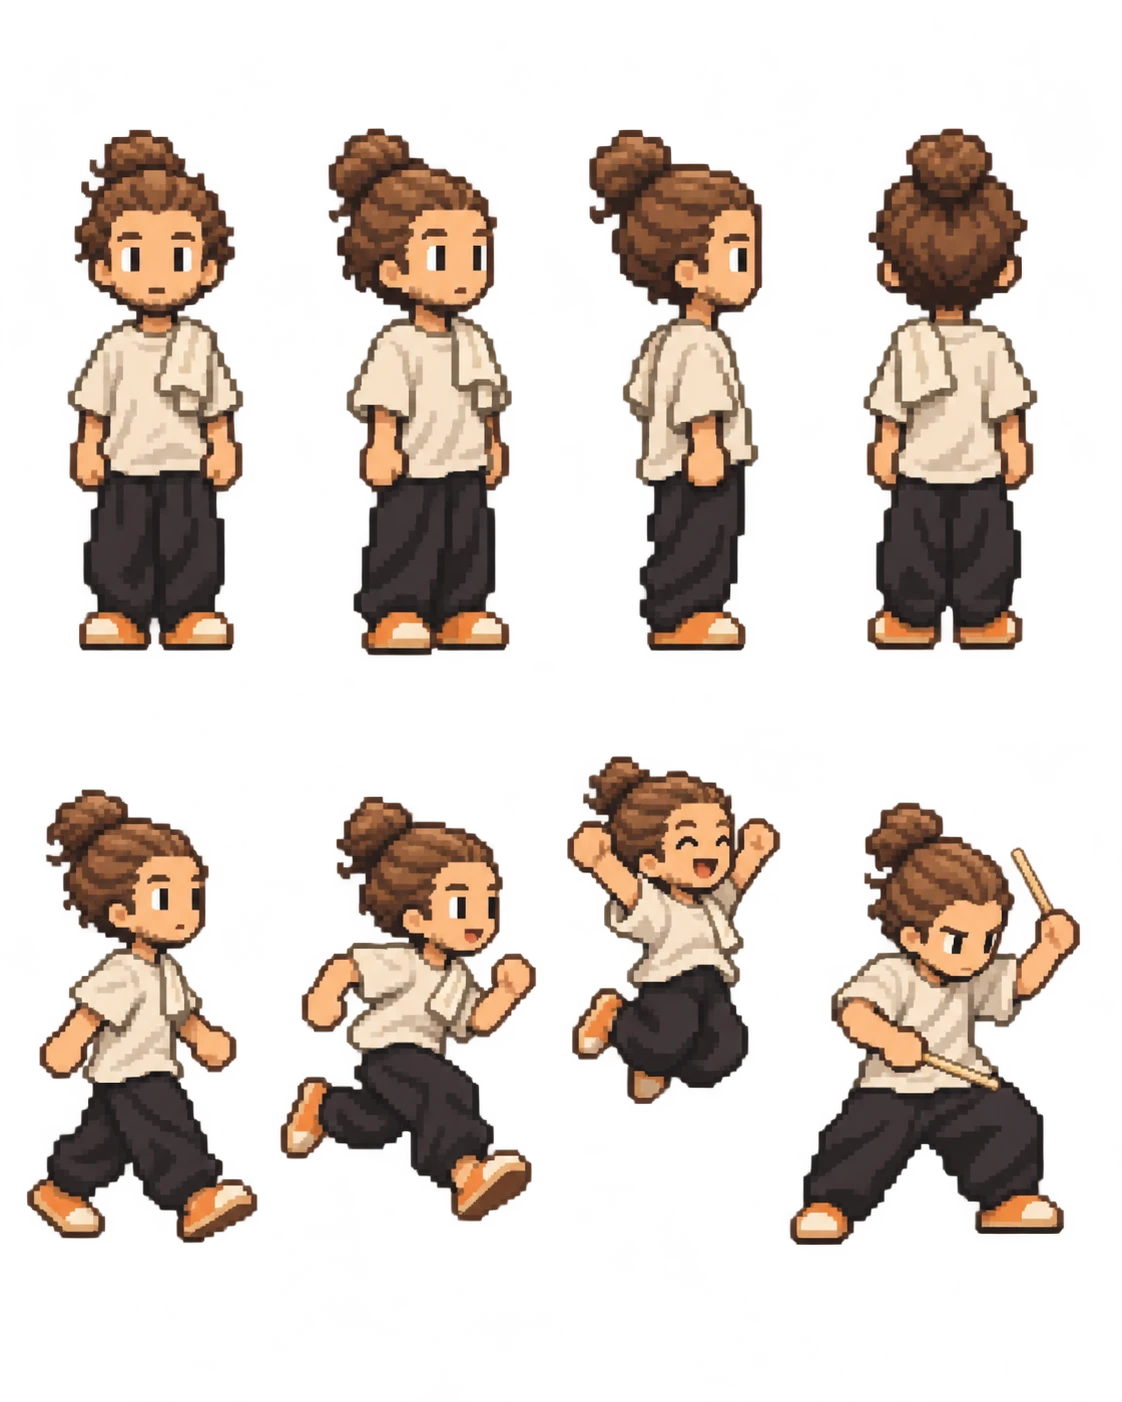
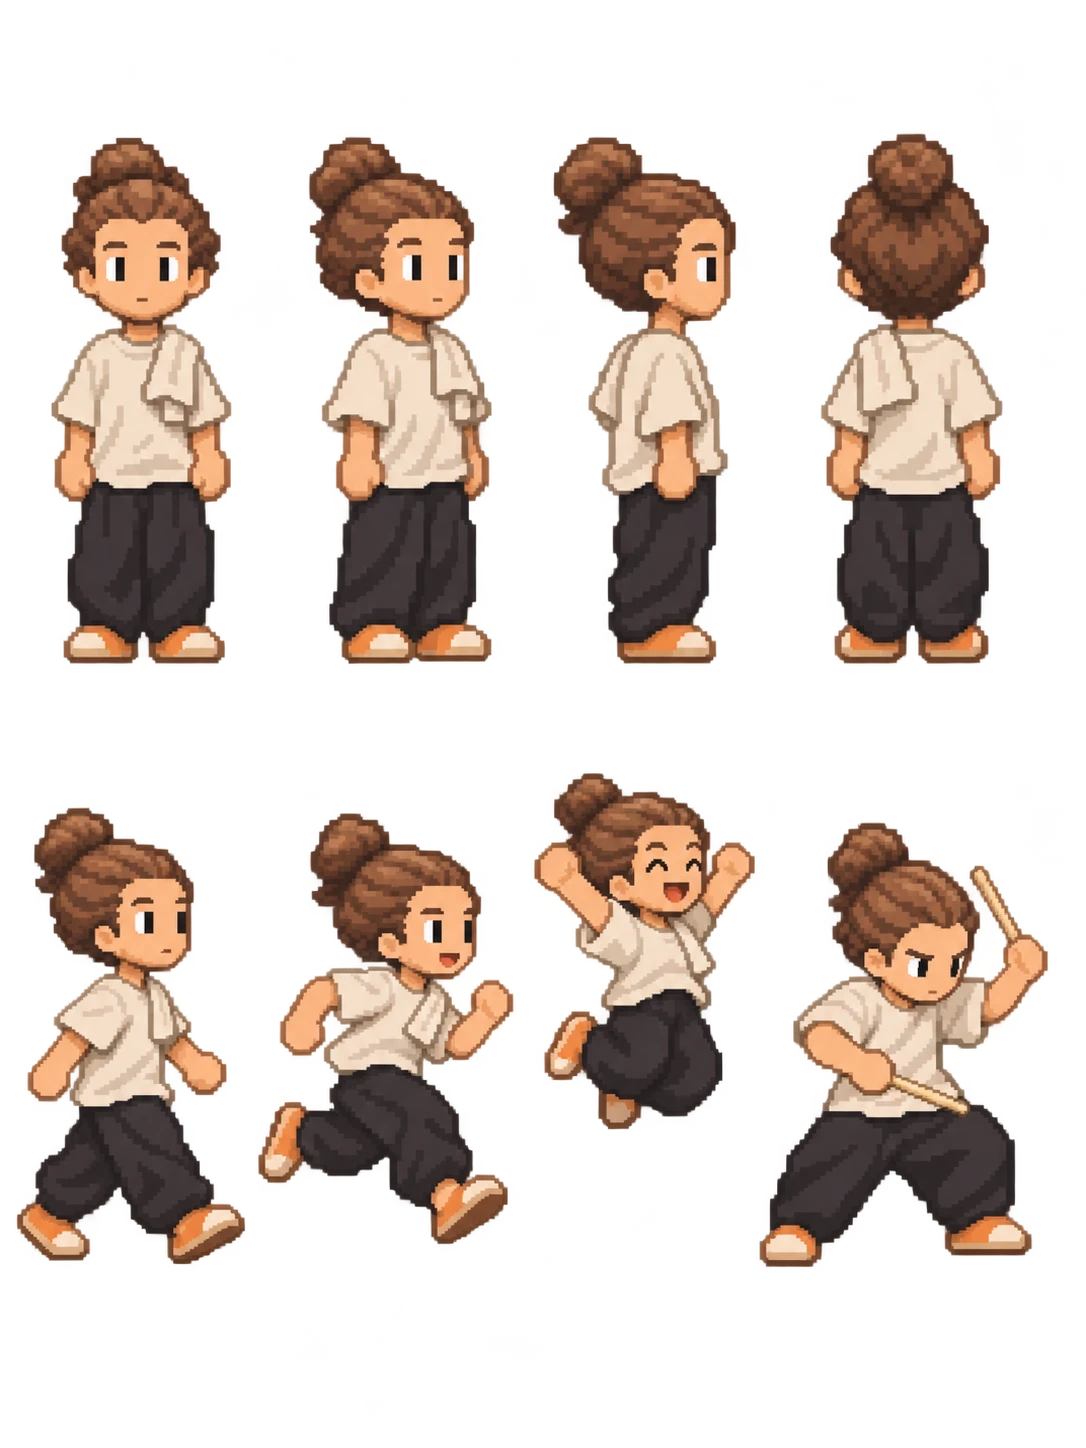
The grown-ups redrawn in the heroes' style
New sheets for Mamka, Alan, Sami and Žofia, redrawn after the heroes'
style: soft outlines in a darker shade of each colour, the heroes' finer
pixels and warmer colours. The first sheets are kept in
art/source/old/people-first.

tools/sprites.py sizes each grown-up by their standing height (about a
third taller than the heroes), whatever the size of the sheet, and lifts
only their darkest colours to the heroes' soft charcoal; the first
sheets' fuller colour lift is kept for any sheet listed in GRADE.

Claude-Session: https://claude.ai/code/session_01VNRPapRapxGDERJvDFS1Be

diff --git a/docs/v2/assets/sprites.js b/docs/v2/assets/sprites.js
@@ -161,7 +161,7 @@ window.SPRITES = {
   "leila": {
     "file": "leila-poses.png",
     "w": 78,
-    "h": 132,
+    "h": 131,
     "scale": 0.5,
     "fps": 6,
     "poses": {
@@ -196,7 +196,7 @@ window.SPRITES = {
     },
     "faces": {
       "file": "leila-heads.png",
-      "w": 52,
+      "w": 49,
       "h": 55,
       "n": 5,
       "scale": 0.36
@@ -234,8 +234,8 @@ window.SPRITES = {
   },
   "alan": {
     "file": "alan-poses.png",
-    "w": 86,
-    "h": 135,
+    "w": 82,
+    "h": 134,
     "scale": 0.5,
     "fps": 6,
     "poses": {
@@ -270,7 +270,7 @@ window.SPRITES = {
     },
     "faces": {
       "file": "alan-heads.png",
-      "w": 41,
+      "w": 40,
       "h": 55,
       "n": 5,
       "scale": 0.36
@@ -350,7 +350,7 @@ window.SPRITES = {
     },
     "faces": {
       "file": "sami-heads.png",
-      "w": 38,
+      "w": 39,
       "h": 54,
       "n": 5,
       "scale": 0.36
@@ -394,8 +394,8 @@ window.SPRITES = {
   },
   "zofia": {
     "file": "zofia-poses.png",
-    "w": 82,
-    "h": 141,
+    "w": 72,
+    "h": 134,
     "scale": 0.5,
     "fps": 6,
     "poses": {
@@ -430,8 +430,8 @@ window.SPRITES = {
     },
     "faces": {
       "file": "zofia-heads.png",
-      "w": 52,
-      "h": 59,
+      "w": 49,
+      "h": 56,
       "n": 5,
       "scale": 0.36
     },

diff --git a/game/assets/sprites.js b/game/assets/sprites.js
@@ -161,7 +161,7 @@ window.SPRITES = {
   "leila": {
     "file": "leila-poses.png",
     "w": 78,
-    "h": 132,
+    "h": 131,
     "scale": 0.5,
     "fps": 6,
     "poses": {
@@ -196,7 +196,7 @@ window.SPRITES = {
     },
     "faces": {
       "file": "leila-heads.png",
-      "w": 52,
+      "w": 49,
       "h": 55,
       "n": 5,
       "scale": 0.36
@@ -234,8 +234,8 @@ window.SPRITES = {
   },
   "alan": {
     "file": "alan-poses.png",
-    "w": 86,
-    "h": 135,
+    "w": 82,
+    "h": 134,
     "scale": 0.5,
     "fps": 6,
     "poses": {
@@ -270,7 +270,7 @@ window.SPRITES = {
     },
     "faces": {
       "file": "alan-heads.png",
-      "w": 41,
+      "w": 40,
       "h": 55,
       "n": 5,
       "scale": 0.36
@@ -350,7 +350,7 @@ window.SPRITES = {
     },
     "faces": {
       "file": "sami-heads.png",
-      "w": 38,
+      "w": 39,
       "h": 54,
       "n": 5,
       "scale": 0.36
@@ -394,8 +394,8 @@ window.SPRITES = {
   },
   "zofia": {
     "file": "zofia-poses.png",
-    "w": 82,
-    "h": 141,
+    "w": 72,
+    "h": 134,
     "scale": 0.5,
     "fps": 6,
     "poses": {
@@ -430,8 +430,8 @@ window.SPRITES = {
     },
     "faces": {
       "file": "zofia-heads.png",
-      "w": 52,
-      "h": 59,
+      "w": 49,
+      "h": 56,
       "n": 5,
       "scale": 0.36
     },

diff --git a/tools/sprites.py b/tools/sprites.py
@@ -449,8 +449,8 @@ def object_sheet(code):
 # ---- the grown-ups: a sheet each of eight figures on a transparent background, from art/source/people/<id>.webp ----
 PEOPLE = os.path.join(SOURCE, 'people')
 PEOPLE_POSES = ['front', 'three', 'side', 'back', 'walk', 'run', 'cheer', 'act']    # top row: from four sides; bottom row: walking, running, a jump for joy, their own thing
-PEOPLE_PIXEL = 3.9                               # one size for all four, so they keep their heights next to each other; finer than they
-                                                 # are drawn, so at half size they stand about a third taller than the heroes
+PEOPLE_HEIGHT = {'leila': 132, 'alan': 135, 'sami': 130, 'zofia': 134}   # standing height in sprite pixels: about a third taller than the heroes
+GRADE = set()                                    # sheets whose colours need lifting to the heroes' (the first, darker sheets did)
 
 
 def box_shrink(a, step):
@@ -499,6 +499,17 @@ def grade(img, lift=0.17, gamma=0.86, sat=1.12, head=0.3):
     return Image.fromarray(a.astype(np.uint8), 'RGBA')
 
 
+def lift_blacks(img, head=0.3):
+    """Black clothes become the heroes' soft charcoal (Kendrick's T-shirt): only the darkest colours are lifted,
+    and in the head the eyes and brows stay as they are."""
+    a = np.asarray(img).astype(float).copy(); h = a.shape[0]
+    for y, x in zip(*np.nonzero(a[..., 3])):
+        hh, ss, vv = colorsys.rgb_to_hsv(*(a[y, x, :3] / 255))
+        if vv >= 0.33 or y < h * head: continue
+        a[y, x, :3] = np.array(colorsys.hsv_to_rgb(hh, ss * 0.9, 0.14 + 0.62 * vv)) * 255
+    return Image.fromarray(a.astype(np.uint8), 'RGBA')
+
+
 def unline(img, head=0.3):
     """Thin dark lines inside the body (below the head, where the eyes are) become a darker shade of the colour
     on either side of them, like the outer edge."""
@@ -524,7 +535,10 @@ def people_sheet(name):
     a = np.asarray(Image.open(path).convert('RGBA')).copy()
     a[a[..., 3] < 128] = 0
     a[..., 3] = np.where(a[..., 3] > 0, 255, 0)
-    small = tidy(palette(box_shrink(a, PEOPLE_PIXEL), 80))    # even fine pixels and flat colours, like the heroes'
+    # how tall a standing figure is on this sheet: the tallest thing in the top half
+    rough = shrink(a, 4.0); tops = [g for g in pieces(rough[..., 3] > 0, 150) if np.mean([y for y, _ in g]) < rough.shape[0] / 2]
+    tall = max(max(y for y, _ in g) - min(y for y, _ in g) + 1 for g in tops) * 4.0
+    small = tidy(palette(box_shrink(a, tall / PEOPLE_HEIGHT[name]), 80))     # even fine pixels and flat colours, like the heroes'
     groups = pieces(small[..., 3] > 0, 150)
     assert len(groups) == 8, (name, [len(g) for g in groups])
     frames = []
@@ -538,7 +552,9 @@ def people_sheet(name):
             h = f.shape[0]
             band = f[int(h * 0.15):int(h * 0.5), :, 3] > 0                     # head and shoulders: where the body is, whatever the arms do
             ax = float(np.median(np.nonzero(band)[1])) + 0.5
-            frames.append((unline(soften(grade(Image.fromarray(f, 'RGBA')))), ax, int(ground - 1 - ys.max())))
+            fig = Image.fromarray(f, 'RGBA')
+            fig = grade(fig) if name in GRADE else lift_blacks(fig)
+            frames.append((unline(soften(fig)), ax, int(ground - 1 - ys.max())))
     left = max(int(np.ceil(ax)) for _, ax, _ in frames)
     right = max(int(np.ceil(f.width - ax)) for f, ax, _ in frames)
     cw, ch = int(2 * max(left, right) + 2), int(max(f.height + lift for f, _, lift in frames))
